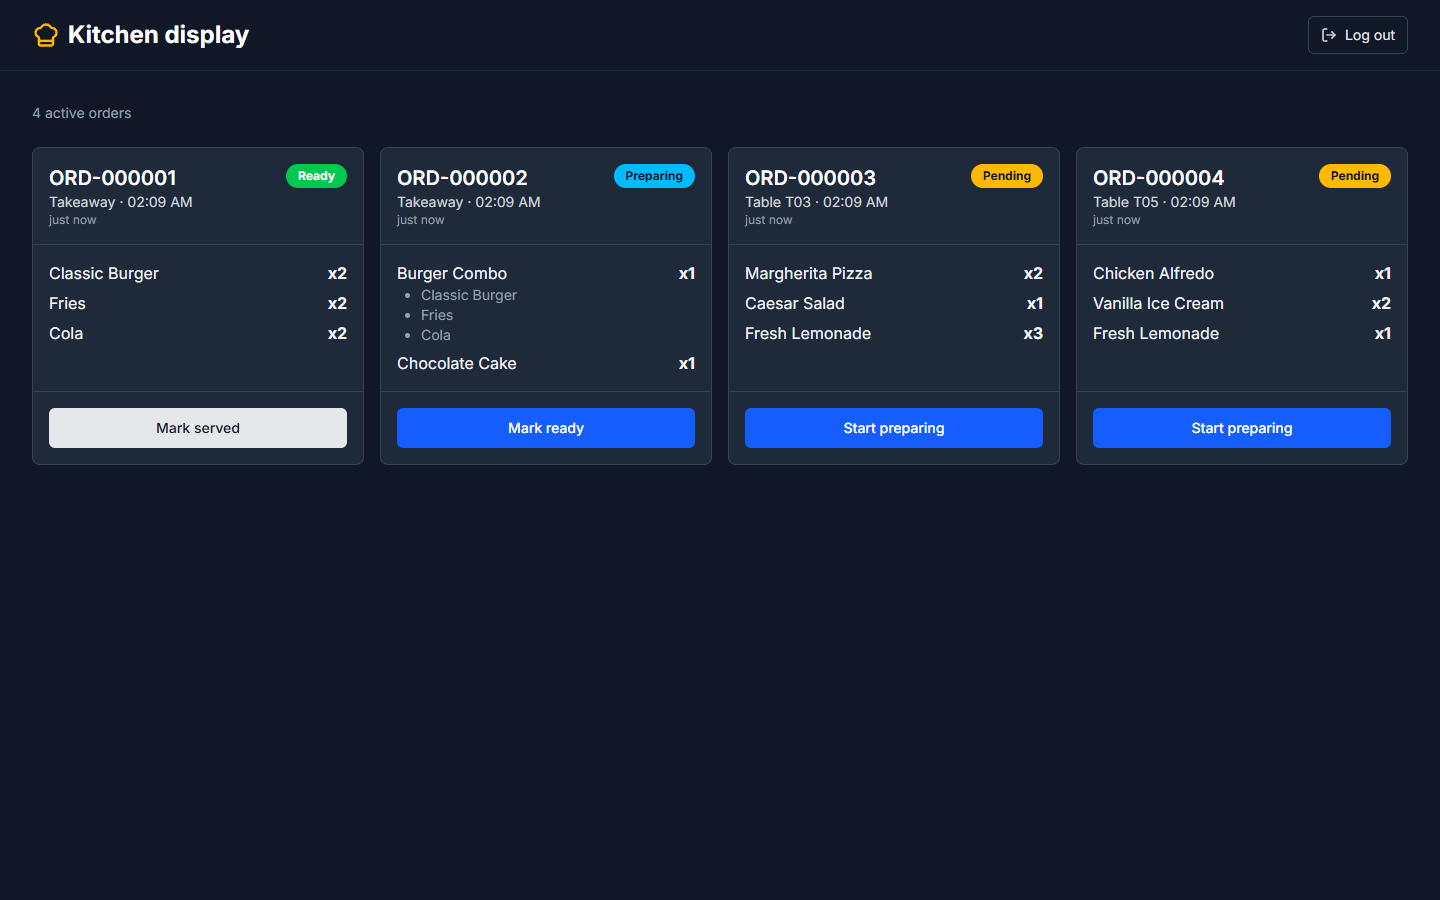
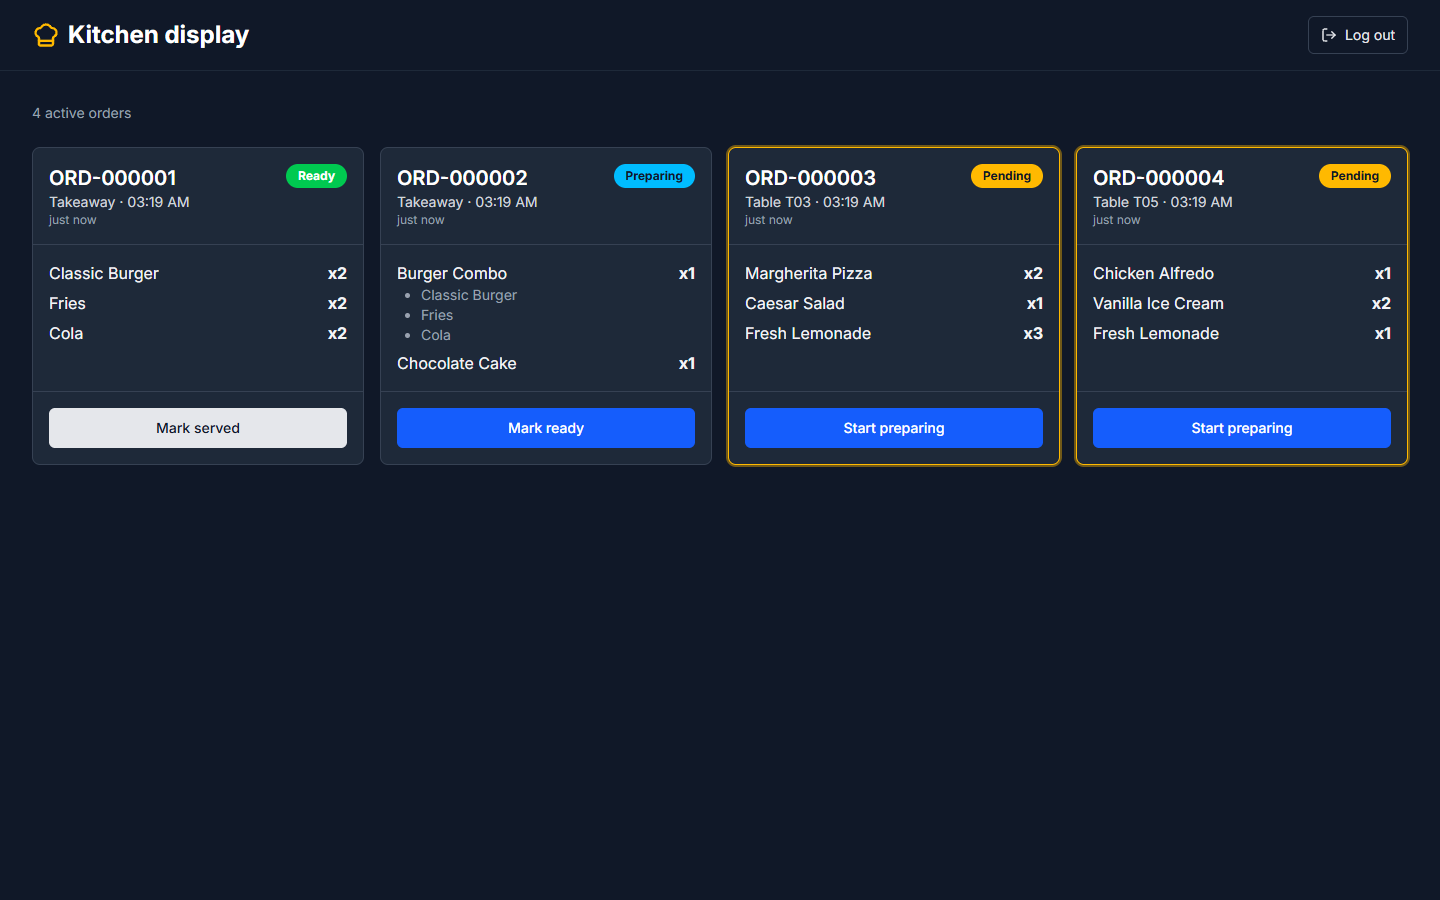
Add contributor docs and templates, refresh screenshots
- CONTRIBUTING.md (setup, where code belongs, checks to run) and
  SECURITY.md (what counts as a vulnerability, how to report it)
- Pull request template and issue forms for bugs and feature requests
- .nvmrc and .editorconfig so editors and Node versions match the repo
- Playwright uses half the CPU cores locally; one browser per core
  could starve the single static server and time tests out
- README screenshots regenerated from the current build, and the
  project tree, contributing and security sections brought up to date

diff --git a/playwright.config.ts b/playwright.config.ts
@@ -24,7 +24,8 @@ export default defineConfig({
   fullyParallel: true,
   forbidOnly: CI,
   retries: CI ? 1 : 0,
-  workers: CI ? 2 : undefined,
+  // Half the CPU cores locally: one browser per core can starve a single static server.
+  workers: CI ? 2 : '50%',
   reporter: CI ? [['github'], ['list']] : 'list',
   use: {
     baseURL: REMOTE ?? `http://localhost:${PORT}/`,

diff --git a/README.md b/README.md
@@ -134,16 +134,21 @@ On a phone the POS stacks into one column and a bar at the bottom keeps the runn
 
 ```
 restaurant-pos-system-nextjs/
-├── .github/workflows/
-│   ├── ci.yml                  # lint, types, unit tests, build, e2e, sub-path build
-│   └── pages.yml               # builds and deploys the demo to GitHub Pages
+├── .github/
+│   ├── workflows/
+│   │   ├── ci.yml              # lint, types, unit tests, build, e2e, sub-path build
+│   │   └── pages.yml           # builds and deploys the demo to GitHub Pages
+│   ├── ISSUE_TEMPLATE/         # bug report and feature request forms
+│   └── pull_request_template.md
 ├── docs/screenshots/           # README images (npm run screenshots regenerates them)
 ├── e2e/                        # Playwright end-to-end tests
+├── public/icons/               # PNG app icons for the install manifest
 ├── scripts/
 │   ├── capture-screenshots.mjs # drives the app and saves the README screenshots
 │   ├── check-links.mjs         # broken links, anchors and root-absolute paths
 │   ├── check-scripts.mjs       # package.json scripts exist, parse, and match this README
 │   ├── fix-export-segments.mjs # post-build fix for a Next.js export bug on Windows
+│   ├── generate-icons.mjs      # renders the PNG icons from src/app/icon.svg
 │   └── hash-password.mjs       # makes a password hash for the env file
 ├── src/
 │   ├── app/                    # one folder per route (see the page map)
@@ -151,14 +156,15 @@ restaurant-pos-system-nextjs/
 │   │   ├── cashier/            # POS screens and bills
 │   │   ├── kitchen/            # kitchen display
 │   │   ├── login/  unauthorized/  not-found.tsx
-│   │   ├── layout.tsx          # fonts, metadata, AuthProvider
+│   │   ├── layout.tsx          # fonts, metadata, auth and feedback providers
+│   │   ├── icon.svg  apple-icon.png  manifest.ts
 │   │   └── globals.css         # Tailwind, print styles
 │   ├── components/
 │   │   ├── admin/              # forms and the order details panel
 │   │   ├── auth/withAuth.tsx   # role guard for pages
 │   │   ├── layout/             # app shell and role-specific navigation
 │   │   ├── pos/                # menu list, cart, payment, receipt
-│   │   └── ui/                 # buttons, inputs, cards, tables, dialogs
+│   │   └── ui/                 # buttons, inputs, cards, tables, dialogs, toasts
 │   ├── contexts/AuthContext.tsx
 │   ├── hooks/                  # useStoredData (reactive storage reads), usePosCart
 │   ├── lib/                    # all business logic, framework-free and unit tested
@@ -171,10 +177,12 @@ restaurant-pos-system-nextjs/
 │   │   ├── receipt.ts          # receipt layout and PDF
 │   │   ├── validation.ts       # form rules
 │   │   ├── seed.ts             # demo data
-│   │   └── config.ts / format.ts / utils.ts
+│   │   └── config.ts / download.ts / format.ts / utils.ts
 │   └── types/index.ts          # shared data types
 ├── tests/                      # Vitest unit tests
 ├── .env.example                # every setting, documented
+├── .nvmrc  .editorconfig  .gitattributes
+├── CONTRIBUTING.md  SECURITY.md  LICENSE
 ├── next.config.ts              # static export, base path, trailing slashes
 ├── playwright.config.ts
 └── vitest.config.mts
@@ -184,7 +192,7 @@ restaurant-pos-system-nextjs/
 
 ### Prerequisites
 
-- [Node.js](https://nodejs.org) 22.12 or newer (the current LTS is fine) and npm
+- [Node.js](https://nodejs.org) 22.12 or newer (the current LTS is fine; `nvm use` reads `.nvmrc`) and npm
 - Git
 
 No database, API keys or accounts are needed.
@@ -488,7 +496,7 @@ What it can't do:
 
 For a multi-till restaurant or anything handling real money, put a server and a database behind the same UI (see the roadmap) so permissions are enforced on the server.
 
-If you find a security problem, please open an issue without exploit details, or contact me through my GitHub profile.
+If you find a security problem, please follow [SECURITY.md](SECURITY.md) rather than posting details in a public issue.
 
 ## Roadmap
 
@@ -504,23 +512,17 @@ If you find a security problem, please open an issue without exploit details, or
 
 ## Contributing
 
-Contributions are welcome.
+Contributions are welcome. [CONTRIBUTING.md](CONTRIBUTING.md) covers setup, where code belongs, and the checks to run before opening a pull request. Bug reports and ideas are welcome as issues; there are templates for both.
 
-1. Fork the repository and create a branch: `git checkout -b feature/short-description`
-2. Make your change. Keep business logic in `src/lib` with unit tests, and keep pages thin.
-3. Run the checks before opening a pull request:
+The short version:
 
-   ```bash
-   npm run lint && npm run typecheck && npm test
-   ```
+```bash
+npm run lint && npm run typecheck && npm test
+```
 
-   ```bash
-   npm run build && npm run check:site && npm run test:e2e
-   ```
-
-4. Open a pull request that explains what changed and why. Screenshots help for UI changes.
-
-Bug reports and ideas are welcome as issues too.
+```bash
+npm run build && npm run check:site && npm run test:e2e
+```
 
 ## Disclaimer
 

diff --git a/CONTRIBUTING.md b/CONTRIBUTING.md
@@ -1,0 +1,58 @@
+# Contributing
+
+Thanks for taking the time to help. Bug reports, ideas and pull requests are all welcome.
+
+## Reporting a bug or suggesting a feature
+
+Open an issue using one of the templates. For bugs, include the steps to reproduce, what you expected, what happened, and your browser and device. A screenshot helps a lot.
+
+If the problem is a security issue, please read [SECURITY.md](SECURITY.md) instead of opening a public issue.
+
+## Setting up
+
+You need Node.js 22.12 or newer (there's an `.nvmrc`, so `nvm use` picks the right version).
+
+```bash
+npm install
+```
+
+```bash
+npm run dev
+```
+
+Then open http://localhost:3000 and sign in with `admin001` / `admin123`.
+
+## Making a change
+
+1. Fork the repository and create a branch from `main`, for example `fix/receipt-totals` or `feature/table-transfer`.
+2. Keep business rules in `src/lib/` as plain functions with unit tests in `tests/`. Pages and components should stay thin and call into `src/lib`.
+3. Only `src/lib/storage.ts` talks to `localStorage`. Read data in components with `useStoredData()` so screens refresh when data changes.
+4. Use relative paths for assets and `next/link` for links, so the app keeps working under a sub-path such as GitHub Pages.
+5. If you add an npm script, document it in the README's script table (`npm run check:scripts` enforces this).
+
+## Before you open a pull request
+
+Run the same checks as CI:
+
+```bash
+npm run lint && npm run typecheck && npm test
+```
+
+```bash
+npm run check:links && npm run check:scripts
+```
+
+```bash
+npm run build && npm run check:site && npm run test:e2e
+```
+
+On Windows or macOS you can run the end-to-end tests with a browser you already have: `PW_CHANNEL=msedge npm run test:e2e` (or `chrome`).
+
+Then open a pull request that explains what changed and why. Screenshots help for UI changes, and the template has a short checklist.
+
+## Style
+
+- TypeScript, strict mode. Prefer small, named functions over clever one-liners.
+- Tailwind for styling; reuse the components in `src/components/ui/`.
+- Write user-facing text in plain language and say what will happen ("Delete table T04?").
+- Keep pull requests focused on one change.

diff --git a/SECURITY.md b/SECURITY.md
@@ -1,0 +1,22 @@
+# Security policy
+
+## Supported versions
+
+Only the latest version on the `main` branch (and the live demo built from it) receives fixes.
+
+## What this project is
+
+The POS runs entirely in the browser and keeps its data in `localStorage`. Role checks keep staff on the right screens, but anyone with access to the browser can read or change that data with the developer tools. That's a known limit, described in the README's [security notes](README.md#security-notes), not a vulnerability.
+
+Things that would count as security issues, for example:
+
+- passwords stored or leaked in a recoverable form
+- a way to run script in the page from data someone else can control (an imported backup, a product name, a CSV export)
+- secrets committed to the repository
+- a dependency with a known vulnerability that affects the app
+
+## Reporting a problem
+
+Please don't post exploit details in a public issue. Instead, open an issue that says you'd like to report a security problem (no details), or contact me through my GitHub profile, [@Kianis534](https://github.com/Kianis534). I'll reply and arrange a private way to share the details.
+
+Please include what you found, the steps to reproduce it, and what an attacker could do with it. I'll confirm the report, work on a fix, and credit you in the fix's pull request if you'd like.

diff --git a/.github/pull_request_template.md b/.github/pull_request_template.md
@@ -1,0 +1,15 @@
+## What changed
+
+<!-- A short summary of the change and why it's needed. Link the issue if there is one. -->
+
+## How to test it
+
+<!-- Steps a reviewer can follow, e.g. "Sign in as cashier001, open Takeaway, ..." -->
+
+## Checklist
+
+- [ ] `npm run lint`, `npm run typecheck` and `npm test` pass
+- [ ] `npm run build`, `npm run check:site` and `npm run test:e2e` pass
+- [ ] New logic in `src/lib` has unit tests
+- [ ] The README is updated if behaviour, settings or scripts changed
+- [ ] Screenshots attached for visible UI changes
